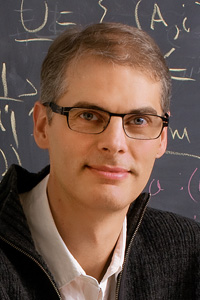
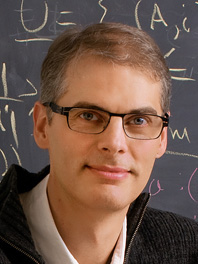
Normalize image sizes.

diff --git a/index.html b/index.html
@@ -16,39 +16,35 @@
     <div class="container">
       <h1>Accountable Protocol Customization</h1>
       <p class="description">
-        A framework for protocol customization that reliably improves the
-          security of <i>networked computing environments.</i>
+        A framework for protocol customization to improve the security
+          of <i>networked computing environments.</i>
       </p>
 
       <p>
-        Widely used network protocols evolve during their design phase and over
-        their years of use. In addition, these protocols must work for a wide variety of
-        devices and for a range of operating scenarios, including backward compatibility
-        with previous versions. For these and other reasons, modern network protocol
-        standards often contain a dizzying array of options with perplexing and
-        unpredictable potential interactions. This complexity makes it immensely
-        challenging to provide high assurance in the security of their designs and
-        implementations. The central thesis of the proposed project is that accountable
-        protocol customization offers a promising alternative to this status
-        quo. Protocol customization involves identifying lean protocol subsets that are
-        sufficient to meet the functional and security needs of relevant clients and
-        servers (e.g. a Navy subnetwork that is outward facing) while preserving
-        backward compatibility. Customization also supports protocol dialects that
-        modify the original protocol standard in settings where backward compatibility
-        is not a strict requirement (e.g., for an inward facing Navy
-        subnetwork). Distinctively, the project will ensure that customization is
-        “accountable”, i.e. we will carefully “account for” properties of customized
-        protocols by tightly coupling protocol customization operations with rigorous
-        analysis.  This coupling will be accomplished by creating and leveraging
-        principled techniques for synthesis, testing, and verification of protocols. The
-        project will create a scientific framework for accountable protocol
-        customization that reliably improves security of contemporary and future
-        networked computing environments. It will demonstrate the value of the framework
-        by applying it to a diverse set of widely used and emerging real-world
-        protocols, including the HTTPS/TLS ecosystem, network infrastructure, and
-        standards for secure messaging, federated authentication, and the Internet of
-        Things.
+        Modern network standards comprise a vast array of options with
+        perplexing and unpredictable potential interactions, making it
+        challenging to guarantee the security of their designs and
+        implementations.
+      </p>
 
+      <p>
+        Accountable protocol customization offers an alternative by identifying
+        lean protocol subsets that suffice to meet the functional and security
+        needs of clients and servers while preserving backward compatibility.
+        The customization is “accountable” in that the properties of the
+        resulting protocols are thoroughly analyzed with techniques for
+        synthesis, testing, and verification.
+      </p>
+
+      <p>
+        The project will demonstrate the value of the framework by applying it
+        to a diverse set of widely used and emerging real-world protocols,
+        including the HTTPS/TLS ecosystem, network infrastructure, and standards
+        for secure messaging, federated authentication, and the Internet of
+        Things.
+      </p>
+
+      <p>
         <a href="https://www.ece.cmu.edu/news-and-events/story/2018/09/onr-grant-software-reduction.html">News
         story on CMU website</a>
       </p>
@@ -76,12 +72,12 @@
           Carnegie Mellon
         </div>
         <div class="person">
-          <img src="img/corina.png"> <br>
+          <img src="img/corina.jpg"> <br>
           <a href="https://ti.arc.nasa.gov/profile/pcorina/">Corina Păsăreanu</a> <br>
           Carnegie Mellon
         </div>
         <div class="person">
-          <img src="img/andre.png"> <br>
+          <img src="img/andre.jpg"> <br>
           <a href="http://www.cis.upenn.edu/~scedrov/">Andre Scedrov</a> <br>
           U. Penn
         </div>
@@ -115,7 +111,7 @@
           Carnegie Mellon
         </div>
         <div class="person">
-          <img src="img/arthur.png"> <br>
+          <img src="img/arthur.jpg"> <br>
           <a href="https://arthuraa.net">Arthur A. de Amorim</a> <br>
           Carnegie Mellon
         </div>

diff --git a/style.scss b/style.scss
@@ -8,6 +8,8 @@ html {
 
 h1 {
     text-align: center;
+    padding-top: .75em;
+    padding-bottom: .75em;
     @media (min-width: $small-screen) {
         font-size: 5rem;
         padding-top: .75em;
@@ -15,19 +17,22 @@ h1 {
     }
 }
 
-h2 {
-    @media (min-width: $small-screen) {
-        font-size: 3rem;
-    }
-}
-
 p.description {
     border-bottom: 1px solid #444444;
     color: #444444;
+    font-size: 1.5rem;
+    padding-bottom: 1em;
+    marging-bottom: 1em;
     @media (min-width: $small-screen) {
         font-size: 2rem;
         padding-bottom: 1em;
         margin-bottom: 1em;
+    }
+}
+
+h2 {
+    @media (min-width: $small-screen) {
+        font-size: 3rem;
     }
 }
 
